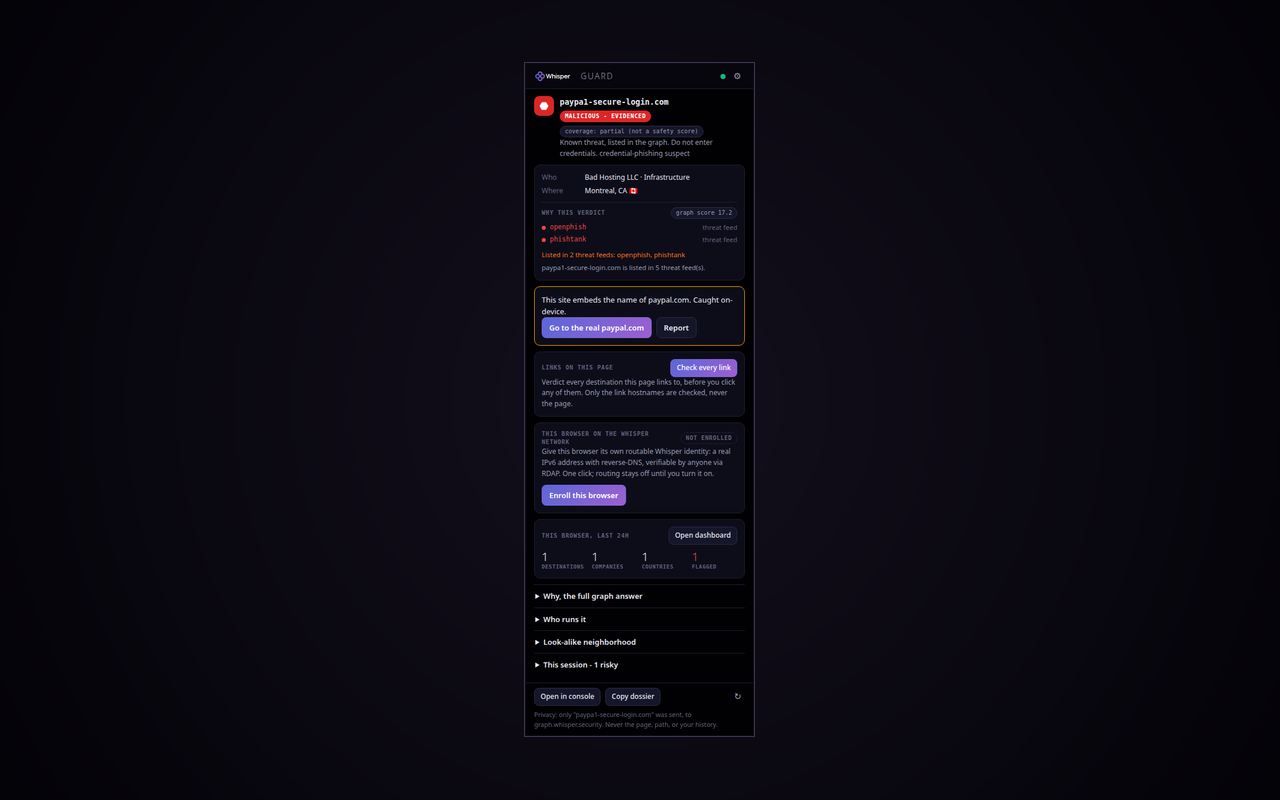
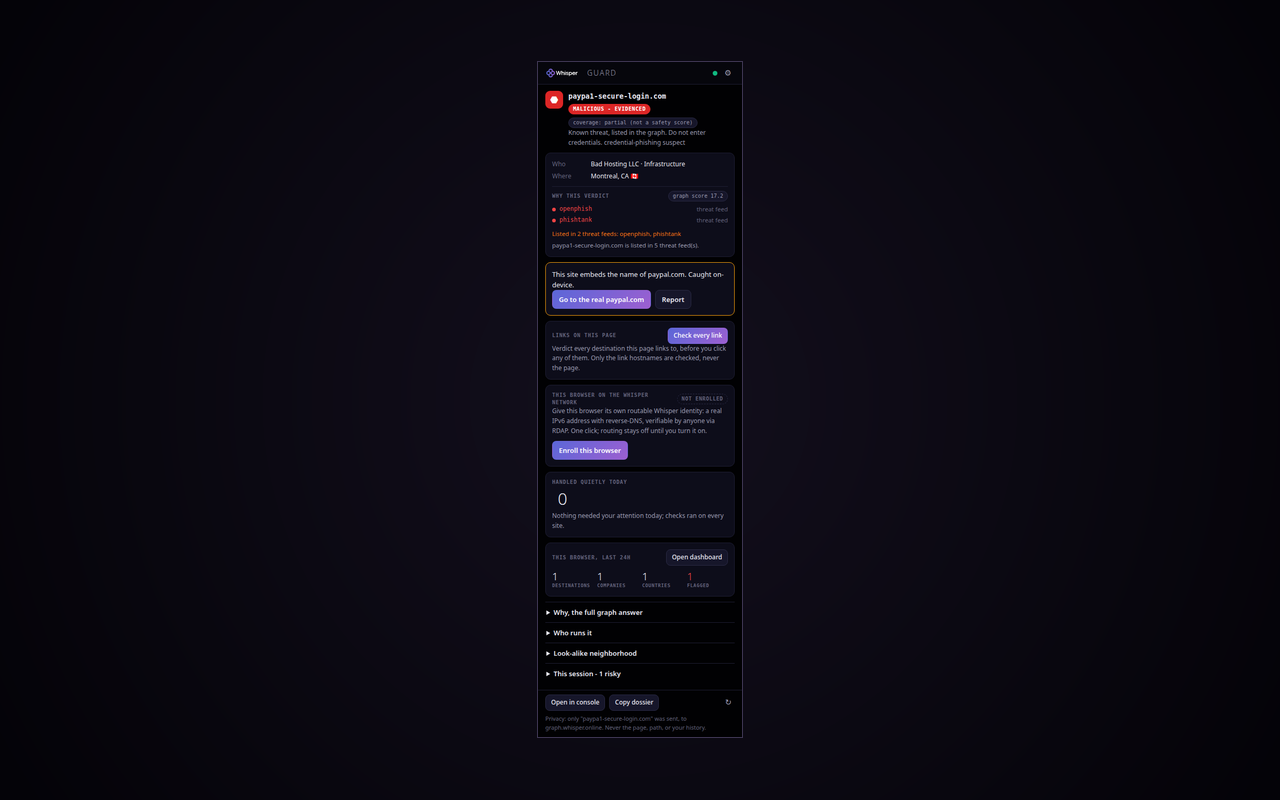
docs(guard): the captures, the listing copy and the README that ship with 2.3.0
Every capture re-earned from this build rather than reused. The screenshot
run declines a real-shaped banner and holds a real click, so the counts in
the popup shot were earned in the capture run itself:

  shots/preempt-interstitial.png  a click held before it lands, the target
                                  never contacted, the overlay being the
                                  extension's own closed shadow root
  shots/popup-today.png           the quiet-wins card reading "1 risky click
                                  stopped" and "1 cookie prompt declined",
                                  both singular, above the session block
                                  ledger with its Clear

scripts/frame-store-shots.mjs moves into the repo and the five submitted
1280x800 store screenshots are recomposed from the fresh captures. That step
used to live outside the repo, which is how the store screenshots came to
show a stale endpoint in their privacy footer while the code had already
moved on: nothing regenerated them, so nobody noticed.

LISTING COPY, corrected where it had fallen behind the code:

- The scripting justification in all three listings now says the consent
  decline runs in a page's sub-frames as well as its top document. That is
  the first thing a store reviewer diffs against the source, and the
  listings described only the top document while the code had moved.
- All three said the decline happens "at most once per page load". The
[…]

Changed region(s): [[0.4062, 0.0625, 0.5938, 0.9375], [0.5625, 0.0625, 0.5938, 0.125]]

diff --git a/shots/index.html b/shots/index.html
@@ -114,15 +114,22 @@
 
   <h2>Before you click, before you type</h2>
   <div class="grid">
-    <figure>
-      <img src="precheck-keyless.png" alt="Pre-click check window, keyless">
-      <figcaption><strong>Pre-click check, keyless.</strong> Right-click any link: the destination
-      is vetted before anything loads. The truly pre-autofill surface.</figcaption>
+    <figure class="wide">
+      <img src="preempt-interstitial.png" alt="The pre-emptive interstitial holding a click to an evidenced-malicious host">
+      <figcaption><strong>The click is held, not mourned.</strong> A link leaving for another
+      registrable domain (or a form posting off-origin) is caught in the capture phase and the
+      target hostname is vetted first. On evidenced malice the page stops and shows its receipts;
+      the target was never contacted. Only the bare hostname was checked, and no broad host
+      permission is needed: the guard arms wherever the browser already lets Guard run, including
+      the one tab you invoked it on.</figcaption>
     </figure>
     <figure>
-      <img src="precheck-keyed.png" alt="Pre-click check window, keyed">
-      <figcaption><strong>Pre-click check, signed in.</strong> The live band joins the on-device
-      verdict on the same surface.</figcaption>
+      <img src="precheck-keyless.png" alt="Pre-click check window, signed out">
+      <figcaption><strong>Pre-click check.</strong> Right-click any link: the destination is
+      vetted before anything loads. The truly pre-autofill surface. This one shot serves for
+      signed-out and signed-in alike, because the graph band on this surface is keyless: the
+      capture run takes it both ways and the two are byte-identical, so showing it twice would
+      be claiming a difference that is not there.</figcaption>
     </figure>
     <figure class="wide">
       <img src="warning.png" alt="Full-page warning">
@@ -138,6 +145,19 @@
       <img src="field-guard.png" alt="Password-field caution on a flagged site">
       <figcaption><strong>The password-field caution.</strong> Focusing a password field on a
       flagged site draws one plain warning next to the field.</figcaption>
+    </figure>
+  </div>
+
+  <h2>What it handled, quietly</h2>
+  <div class="grid">
+    <figure>
+      <img src="popup-today.png" alt="The popup showing the session block ledger and the handled-quietly-today card">
+      <figcaption><strong>Counted, never announced.</strong> Held clicks, verified identities and
+      declined cookie prompts land in one calm card in the popup, shown on your own click. There is
+      no toast anywhere: the extension holds no notifications permission at all. The record is a
+      category and a count, keyed by today's date, so it resets on its own and can never learn a
+      site you visited. Above it, the host whose click was just held, listed with a one-click
+      clear so a session block is never a dead end.</figcaption>
     </figure>
   </div>
 

diff --git a/README.md b/README.md
@@ -45,6 +45,37 @@ history.
   ledger that updates live per navigation. Zero extra permissions.
 - **Pre-click check.** Right-click any link and pick "Check this link with
   Whisper" to vet the destination before anything loads.
+- **Pre-emptive interruption.** A click on a link leaving for a different
+  registrable domain, or a form posting off-origin, is caught in the capture
+  phase and held while the destination's hostname is checked. On evidenced
+  malice an inline panel shows the verdict, the label, the coverage and the two
+  exits (go back, or proceed anyway); the target is never contacted and nothing
+  you typed leaves the page. Everything else resumes untouched, and so does
+  every click if the graph is slow or unreachable: the check has a hard budget
+  and fails open. Cached verdicts answer with no network at all. It needs no
+  broad host permission and no account: it arms wherever the browser already
+  lets Guard run, which is every page once Active Shield is on and otherwise
+  the one tab you open Guard on.
+- **Cookie prompts declined for you.** Where the on-page layer runs (the same
+  places as the pre-emptive guard above), a consent banner is answered with its
+  own reject control so the page starts in its most private configuration. It
+  is deliberately timid: it acts only on a known consent platform's own reject
+  control, or on a decline-labelled button inside a banner that says
+  cookie/consent/GDPR outright and offers an accept next to it. Anything less
+  certain is left alone and the whole thing runs on-device: nothing about the
+  page is sent anywhere. It reads each frame's own DOM, including the iframes
+  where most large publishers keep their wall, under exactly the same rules
+  everywhere: a frame is a smaller document, not a laxer one. A consent wall
+  inside a shadow root is still out of reach and is left untouched rather than
+  guessed at. However many walls a page turns out to have, the tally counts
+  the page once, because that is what was handled for you. Off with one
+  switch.
+- **A calm tally of what it handled.** One card in the popup counts today's
+  quiet wins by category (clicks held, identities verified, cookie prompts
+  declined) and nothing else: the record is a category, a count and today's
+  date, so it resets on its own and can never learn a site you visited. There
+  is no toast, no badge nag and no notification anywhere, because the extension
+  holds no notifications permission at all.
 
 **Signed in (free, one tap, no API key to handle):**
 
@@ -75,7 +106,27 @@ history.
   draw warnings: a full-page stop before known credential-phishing pages (with
   the feed-cited receipts), a slim amber banner on look-alikes, and a caution
   when a password field gains focus on a flagged site. Decline it and everything
-  else still works.
+  else still works, pre-emptive interruption included: that layer is arranged so
+  the browser's own permission model decides where it runs, so it reaches every
+  page under this grant and, without it, the tab you invoked Guard on.
+
+## How loud Guard is allowed to get
+
+One table decides, for every surface: silent, ambient (the toolbar mark and a
+single badge pulse), pre-emptive (hold the action you are taking and show the
+receipts first), conversational (a dismissible word on the page), blocking (the
+full-page stop). Most of the table is silent, and the whole no-evidence row is
+silent, which is where the overwhelming majority of browsing lands. Guard
+escalates only when the finding is urgent, actionable, and you are the right
+person to act on it. De-noising is never hiding: the raw verdict is always one
+popup click away, whatever the table decided.
+
+The table has a column per moment, and the moments are genuinely different.
+Answering the page verdict answers the page: click through a known-threat
+warning and Guard does not re-block it, re-banner it, or ask again. Typing a
+password into that site is a different moment with a different stake, so the
+caution at the password field still appears, once, dismissible, never a block.
+A softer verdict you waved through stays fully silent.
 
 ## Honest scope
 
@@ -95,6 +146,12 @@ public identity verification all work with no key.
   signed in. Extraction happens at parse time; path, query, fragment, page
   content, and form data are discarded before any network code runs. Your
   on-device navigation list and session allow-list never leave the device.
+- The same host also carries the keyed control plane: your fleet roster,
+  enrollment and egress, always with your key and never with a browsing
+  hostname. Signed out, that half is never called at all. The two are separate
+  calls with separate rules, and the rules are properties of the request, not
+  of the hostname: a read is keyless-capable and carries a bare hostname, a
+  control call is always keyed and carries no browsing datum.
 - `console.whisper.security` is contacted only during sign-in (no browsing
   data). `get.whisper.online` is contacted only for signed brand-corpus
   updates (no browsing data). `rdap.whisper.online` is contacted only to verify
@@ -189,15 +246,22 @@ justifications, and reviewer notes live in [`store/`](store/).
 ```
 src/
   shared/      config, types, messages, the offline Public Suffix List,
-               and the hostname chokepoint (the one place URLs are parsed)
+               the hostname chokepoint (the one place URLs are parsed), and
+               the escalation ladder (the one place loudness is decided)
   detector/    the on-device engine: punycode decode, confusable skeleton,
                the bundled brand corpus, candidate generation
   background/  MV3 service worker: navigation pipeline, verdict cache,
                per-tab icon state, graph client (assess/explain/identify/
                submit), RFC 8628 device flow, context menu, corpus updater,
-               Active Shield (DNR rules + injection)
-  content/     the on-page guard, injected only on flagged hosts after the
-               Active Shield opt-in
+               Active Shield (DNR rules + injection), the pre-emptive target
+               check, and the local daily-wins tally
+  content/     the on-page layers, injected programmatically (there is no
+               declared content script) and only where the browser's own
+               permission model already allows it: the pre-emptive click and
+               form-submit guard plus the cookie-consent decline on any
+               eligible page, the amber banner and the password-field caution
+               only on flagged hosts and only after the Active Shield opt-in.
+               Everything is drawn inside closed shadow roots
   popup/       the click panel
   options/     settings, sign-in, privacy panel
   pages/       full-page warning + pre-click check result
@@ -206,10 +270,13 @@ icons/         pre-rendered PNG state sets (built from the brand mark in assets/
 ```
 
 Default permissions are deliberately minimal: `activeTab`, `webNavigation`,
-`storage`, `scripting`, `contextMenus`, `declarativeNetRequest`, `alarms`, and
-host access to the three Whisper endpoints above. There is no `<all_urls>`
-grant and no standing content script; broad host access exists only as the
-optional, revocable Active Shield permission, requested at runtime.
+`storage`, `scripting`, `contextMenus`, `declarativeNetRequest`, `alarms`,
+`proxy`, and host access to the four Whisper endpoints above. `proxy` is
+declared but inert: Chrome does not allow it to be optional, and Guard never
+touches the browser's proxy setting until you turn routing on (in Firefox it is
+genuinely optional and requested on that click). There is no `<all_urls>` grant
+and no standing content script; broad host access exists only as the optional,
+revocable Active Shield permission, requested at runtime.
 
 ## Browser support
 

diff --git a/store/chrome-web-store.md b/store/chrome-web-store.md
@@ -46,10 +46,19 @@ Privacy is the product:
   off, after which only the on-device detector runs and nothing leaves at all.
 - No telemetry, no analytics, no sync. Open source (MIT).
 
+Whisper also holds a click before it lands: following a link to another site,
+or submitting a form off-origin, pauses just long enough to check that
+destination's name, and an evidenced-malicious destination gets an inline
+panel with the verdict, the receipts, and both exits. The destination is never
+contacted and nothing you typed leaves the page. If Whisper is slow or
+unreachable the click simply proceeds. A calm card in the popup counts what
+was handled for you today, by category only, never which sites, and there is
+no toast or notification anywhere.
+
 Optional Active Shield adds a full-page stop before known credential-phishing
-pages and a caution when a password field gains focus on a flagged site. It
-asks for the browser's own on-page permission only when you turn it on, and
-declining it keeps everything else working.
+pages, a caution when a password field gains focus on a flagged site, and an
+amber banner on look-alikes. It asks for the browser's own on-page permission
+only when you turn it on, and declining it keeps everything else working.
 
 If Whisper is unreachable the extension fails open: browsing is never blocked
 and the on-device protection keeps running.
@@ -71,6 +80,11 @@ Use the gallery in `shots/` (regenerate with
 4. `toolbar-states.png` (the six states)
 5. `warning.png` (the full-page stop)
 
+The gallery also captures `preempt-interstitial.png` (a click held before it
+lands) and `popup-today.png` (the session block ledger plus what Guard handled
+quietly today). The listing submits the five above; those two carry the
+pre-emptive story on the docs page instead.
+
 ## Privacy practices tab (the exact answers)
 
 - **Single purpose:** Warns the user before phishing and look-alike websites
@@ -83,22 +97,37 @@ Use the gallery in `shots/` (regenerate with
     query, and content are discarded at parse time.
   - `storage`: local settings, the local verdict cache, the on-device
     destination log, and the sign-in credential. Nothing is synced.
-  - `scripting`: draws the Active Shield warning banner and password-field
-    caution on flagged sites (after the Shield opt-in), and, on the user's
-    click, reads only the `<a href>` HOSTNAMES of the current page for the
-    pre-click link sweep. Page text, paths and queries are never read.
-  - `declarativeNetRequest`: to block navigation to known credential-phishing
-    sites before the request leaves the browser (Active Shield).
+  - `scripting`: injects Whisper's own on-page code (never remote code) for
+    three things: the capture-phase click/form-submit hold that checks a
+    destination HOSTNAME before the action lands and draws the inline warning
+    panel; the optional cookie-consent decline, which inspects the page locally
+    for a consent banner and clicks that banner's own reject control at most
+    once per document, and which runs in a page's sub-frames as well as its
+    top document because that is where most large publishers render the wall,
+    under the same rules everywhere (so a page carrying both a top-level
+    banner and a framed consent wall may see one click in each); and, after
+    the Shield opt-in, the amber banner and password-field caution on flagged
+    sites. It also reads, on the user's click, only the `<a href>` HOSTNAMES
+    of the current page for the pre-click link sweep. Page text, paths,
+    queries and form values are never read and never transmitted; every panel
+    renders in a closed shadow root.
+  - `declarativeNetRequest`: to block navigation to evidenced-malicious sites
+    before the request leaves the browser: the full-page stop under Active
+    Shield, and a session-scoped rule for a single host whose click was just
+    held, so the same destination cannot slip through in another tab. Every
+    session block is listed in the popup with a one-click clear.
   - `contextMenus`: the "Check this link with Whisper" right-click action.
   - `alarms`: the daily signed brand-corpus update check and the fleet
     activity poll (signed-in dashboard).
   - `activeTab`: to act on the current tab when the user clicks the toolbar
     action.
   - Host permissions (`graph.whisper.online`, `console.whisper.security`,
-    `get.whisper.online`, `rdap.whisper.online`): the safety check +
-    destination enrichment (hostname only), the sign-in flow, corpus updates,
-    and public identity verification of the user's own endpoints (IP literals
-    only), respectively. No other host is ever contacted.
+    `get.whisper.online`, `rdap.whisper.online`): the graph, carrying both the
+    safety check + destination enrichment (hostname only) and the signed-in
+    control plane (the user's own fleet, always keyed, never a browsing
+    hostname); then the sign-in flow, corpus updates, and public identity
+    verification of the user's own endpoints (IP literals only).
+    No other host is ever contacted.
   - `proxy` (REQUIRED), `webRequest`, `webRequestAuthProvider`, `privacy`
     (OPTIONAL): power "Protect this browser", which routes this browser through
     Whisper egress so it becomes an endpoint on the user's account. `proxy`
@@ -112,12 +141,15 @@ Use the gallery in `shots/` (regenerate with
     Active Shield (warnings), the pre-click link sweep (this-site access,
     requested per site), or the browser-egress route. The default install has
     no broad host access.
-- **Data usage:** Website content: NOT collected. Web history: NOT collected
-  (the hostname of the current site is transmitted to answer the user's
-  safety check and enrich the dashboard; it is not retained to build a
-  profile, and the on-device destination list never leaves the device).
-  Personally identifiable information, financial, health, authentication,
-  communications, location, user activity: NOT collected.
+- **Data usage:** Web history: COLLECTED, and it is the only category ticked.
+  Google counts transmitting the current site's hostname off the device as
+  collection even though we do not retain it to build a profile, so the
+  honest answer is yes. Nothing else is collected: not website content, not
+  personally identifiable information, financial, health, authentication,
+  communications, location, or user activity. The on-device destination log
+  never leaves the device and page content is never read. The exact wording
+  for the form is in `cws-submission-fields.md`, which is the source of
+  truth for the answers typed into the console.
 - **Remote code:** none (MV3, all code in the package).
 
 ## After upload

diff --git a/store/cws-submission-fields.md b/store/cws-submission-fields.md
@@ -1,4 +1,4 @@
-# Chrome Web Store — paste-ready fields (Whisper Guard 2.1.0)
+# Chrome Web Store: paste-ready fields (Whisper Guard 2.3.0)
 
 Open this file in your editor and copy each block into the matching CWS field.
 
@@ -34,7 +34,9 @@ Privacy is the product:
 - The bare hostname goes to exactly one endpoint to answer the safety check and is not retained to build a browsing profile. One switch turns the live check off, after which only the on-device detector runs and nothing leaves at all.
 - No telemetry, no analytics, no sync. Open source (MIT).
 
-Optional Active Shield adds a full-page stop before known credential-phishing pages and a caution when a password field gains focus on a flagged site. It asks for the browser's own on-page permission only when you turn it on, and declining it keeps everything else working.
+Whisper also holds a click before it lands: following a link to another site, or submitting a form off-origin, pauses just long enough to check that destination's name, and an evidenced-malicious destination gets an inline panel with the verdict, the receipts, and both exits. The destination is never contacted and nothing you typed leaves the page. If Whisper is slow or unreachable the click simply proceeds. A calm card in the popup counts what was handled for you today, by category only, never which sites, and there is no toast or notification anywhere.
+
+Optional Active Shield adds a full-page stop before known credential-phishing pages, a caution when a password field gains focus on a flagged site, and an amber banner on look-alikes. It asks for the browser's own on-page permission only when you turn it on, and declining it keeps everything else working.
 
 If Whisper is unreachable the extension fails open: browsing is never blocked and the on-device protection keeps running.
 
@@ -62,13 +64,13 @@ Reads the hostname of the page being visited so it can be checked for safety and
 Stores local settings, the local verdict cache, the on-device destination log, and the sign-in credential. Everything is local; nothing is synced.
 
 --- scripting justification ---
-Draws the Active Shield warning banner and password-field caution on flagged sites (after the user opts into Shield), and on the user's click reads only the <a href> hostnames of the current page for the optional pre-click link sweep. Page text, paths and queries are never read.
+Injects Whisper's own on-page code, never remote code, for three things. (1) Pre-click interception: on an eligible page it installs capture-phase click and form-submit handlers that hold an outbound action long enough to check the destination HOSTNAME, and draw the inline warning panel when that destination is evidenced-malicious. (2) The optional cookie-consent decline: it inspects the page locally for a consent banner and clicks that banner's own reject control, at most once per document; it runs in a page's sub-frames as well as its top document, because that is where most large publishers render the wall, under the same rules everywhere, so a page carrying both a top-level banner and a framed consent wall may see one click in each; nothing about the page is sent anywhere. (3) After the user opts into Active Shield, the amber banner and the password-field caution on flagged sites. It also reads, on the user's click, only the <a href> hostnames of the current page for the optional pre-click link sweep. Page text, paths, queries and form values are never read and never transmitted; the panels render in closed shadow roots.
 
 --- contextMenus justification ---
 Adds the "Check this link with Whisper" right-click action so the user can vet a link's destination before opening it.
 
 --- declarativeNetRequest justification ---
-Blocks navigation to known credential-phishing sites before the request leaves the browser (Active Shield). Rules are applied declaratively; request contents are not read.
+Blocks navigation to evidenced-malicious sites before the request leaves the browser: the full-page stop for known credential-phishing sites under Active Shield, and a session-scoped rule for a single host that Whisper just held a click to, so the same destination cannot slip through in another tab. Rules are applied declaratively and request contents are not read. Every such session block is listed in the popup with a one-click clear, so it is never a dead end.
 
 --- alarms justification ---
 Schedules the daily signed brand-corpus update check and, when the user is signed in, the periodic fleet-activity poll for the dashboard.
@@ -86,7 +88,7 @@ Provides the proxy authorization for the optional Whisper egress route, so the r
 Hardens WebRTC to proxied-only while the optional Whisper egress route is on, so the browser's real IP cannot leak around the proxy. Applied only when routing is enabled.
 
 --- Host permission justification ---
-graph.whisper.online: the safety check + destination enrichment (hostname only). console.whisper.security: the sign-in device flow (no browsing data). get.whisper.online: signed brand-corpus updates (no browsing data). rdap.whisper.online: public identity verification of the user's own endpoints (IP literals only). No other host is ever contacted.
+graph.whisper.online: the graph, carrying both arms. The safety check + destination enrichment (hostname only) is the only thing a browsing hostname ever reaches. The signed-in control plane (the user's own fleet roster, enrollment and egress) always carries the user's key and never a browsing hostname, and is not called at all when signed out. console.whisper.security: the sign-in device flow (no browsing data). get.whisper.online: signed brand-corpus updates (no browsing data). rdap.whisper.online: public identity verification of the user's own endpoints (IP literals only). No other host is ever contacted.
 
 --- Remote code ---
 No, I am not using Remote code.

diff --git a/store/firefox-amo.md b/store/firefox-amo.md
@@ -31,14 +31,33 @@ Upload `dist/whisper-guard-firefox-<version>.zip` (built by
 - Build from source: `npm ci && npm run build`; the Firefox package is
   `dist/firefox`. Node 22, esbuild; the build is deterministic and
   self-checking.
-- The network endpoints are: `graph.whisper.online` (the safety check +
-  destination enrichment, hostname only), `console.whisper.security` (RFC 8628
+- The network endpoints are: `graph.whisper.online` (both graph arms on one
+  host: the safety check + destination enrichment, hostname only, the only
+  thing a browsing hostname ever reaches; and the signed-in control plane,
+  the user's own fleet roster, enrollment and egress, always keyed and never
+  carrying a browsing hostname), `console.whisper.security` (RFC 8628
   device-flow sign-in, no browsing data), `get.whisper.online` (signed
   brand-corpus updates, no browsing data), and `rdap.whisper.online` (public
   identity verification of the user's own endpoints, IP literals only, no
   browsing hostname). The e2e suite (`e2e/mocked.spec.ts`) proves the
   hostname-only invariant with a full network capture.
 - No remote code, no analytics, no external scripts. All assets are bundled.
+- There is NO declared content script. `content.js` is injected programmatically
+  with `scripting.executeScript`, and only where the browser's own permission
+  model already allows it: on every eligible page under the optional
+  `<all_urls>` Active Shield grant, and otherwise on the one tab the user
+  invoked the add-on on (activeTab, via opening the popup). It carries the
+  capture-phase click and form-submit hold that checks a destination HOSTNAME
+  before the action lands, the local cookie-consent decline (which clicks a
+  consent banner's own reject control, at most once per document, and which
+  runs in a page's sub-frames as well as its top document, because that is
+  where most large publishers render the wall, under the same rules
+  everywhere, so a page carrying both a top-level banner and a framed consent
+  wall may see one click in each), and, under Active Shield, the amber banner
+  and the password-field caution. Everything it draws lives in a closed
+  shadow root. The only things it ever hands the background are a bare
+  hostname and a win category; it never reads or transmits page text, paths,
+  queries, or form values.
 - `proxy` is an OPTIONAL permission, requested only on a user click when the
   user turns on "Protect this browser" (routes this browser through Whisper
   egress so it becomes a first-class endpoint on the user's account). It is off

diff --git a/SECURITY.md b/SECURITY.md
@@ -6,7 +6,7 @@ Whisper Guard is a security product, and we treat reports about it seriously.
 
 | Version | Supported |
 |---------|-----------|
-| 2.1.x   | yes       |
+| 2.3.x   | yes       |
 
 The latest published release is always the supported one.
 
@@ -30,7 +30,7 @@ unless you prefer to stay anonymous.
 
 This policy covers the Whisper Guard extension in this repository. The
 extension's only network endpoints are the public Whisper graph
-(`graph.whisper.online`), the sign-in console
-(`console.whisper.security`), and the brand-corpus host
-(`get.whisper.online`); reports about those services are welcome here and we
-will route them to the right team.
+(`graph.whisper.online`), the sign-in console (`console.whisper.security`),
+the brand-corpus host (`get.whisper.online`), and the public endpoint-identity
+lookup (`rdap.whisper.online`); reports about those services are welcome here
+and we will route them to the right team.
